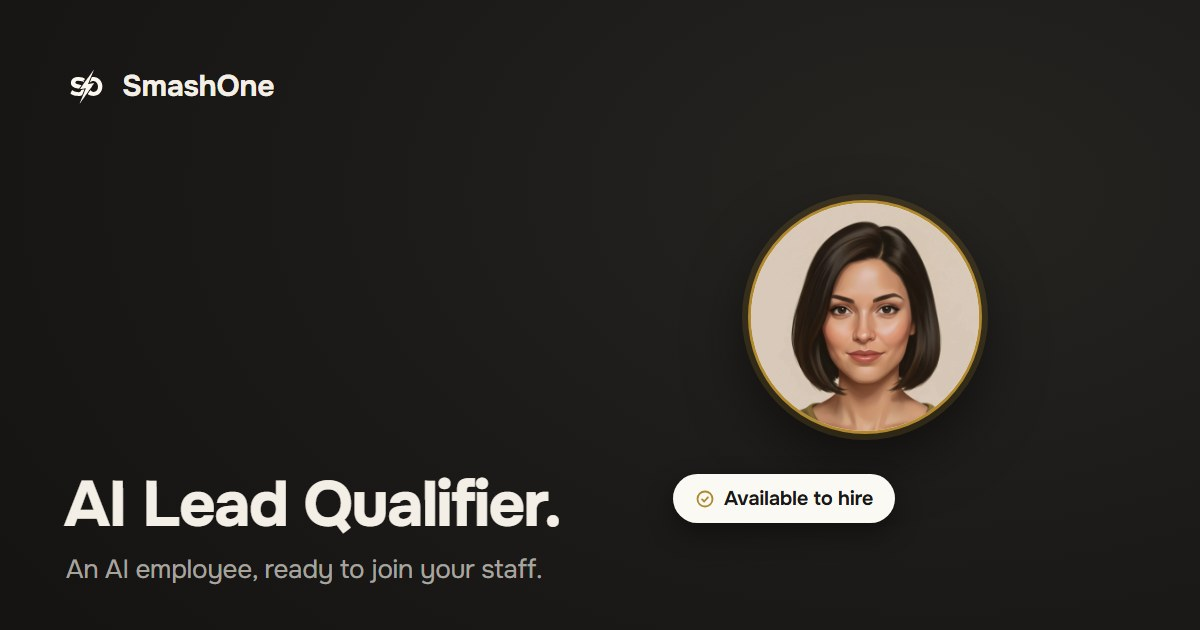
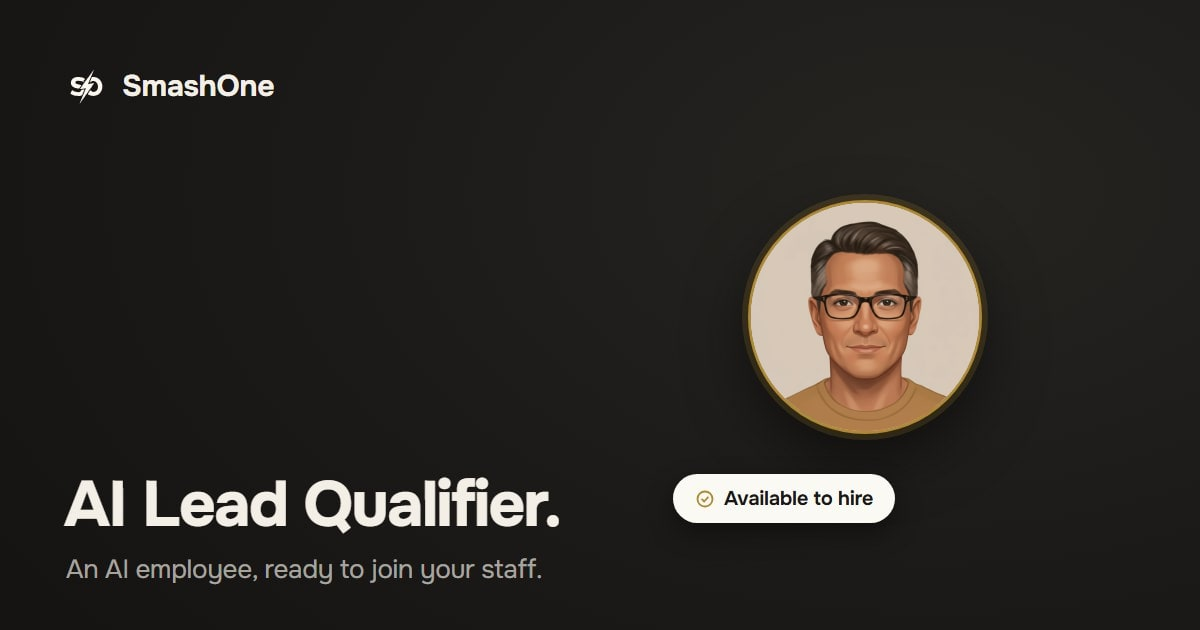
og: role card for Lead Qualifier carries the new face (no double of Sage, GA 12.09)
Same bytes as the site card rebuilt by web/scripts/og/swap-role-medallion.mjs from roster sha bd8d1a6f. SHA256SUMS and README row updated.

Claude-Session: https://claude.ai/code/session_01ASc1pGMoWc3E4qqxbq6TAY

Changed region(s): [[0.6475, 0.3317, 0.8017, 0.6937]]

diff --git a/og/README.md b/og/README.md
@@ -26,7 +26,7 @@
 cd og && sha256sum -c SHA256SUMS.txt
 ```
 
-## Опись — 29 карточек, 2037792 байт (1990.0 КБ)
+## Опись — 29 карточек, 2027152 байт (1979.6 КБ)
 
 | файл | пиксели | байт | sha256 |
 |---|---|---|---|
@@ -53,7 +53,7 @@ cd og && sha256sum -c SHA256SUMS.txt
[8 lines of base64/hex data omitted]
